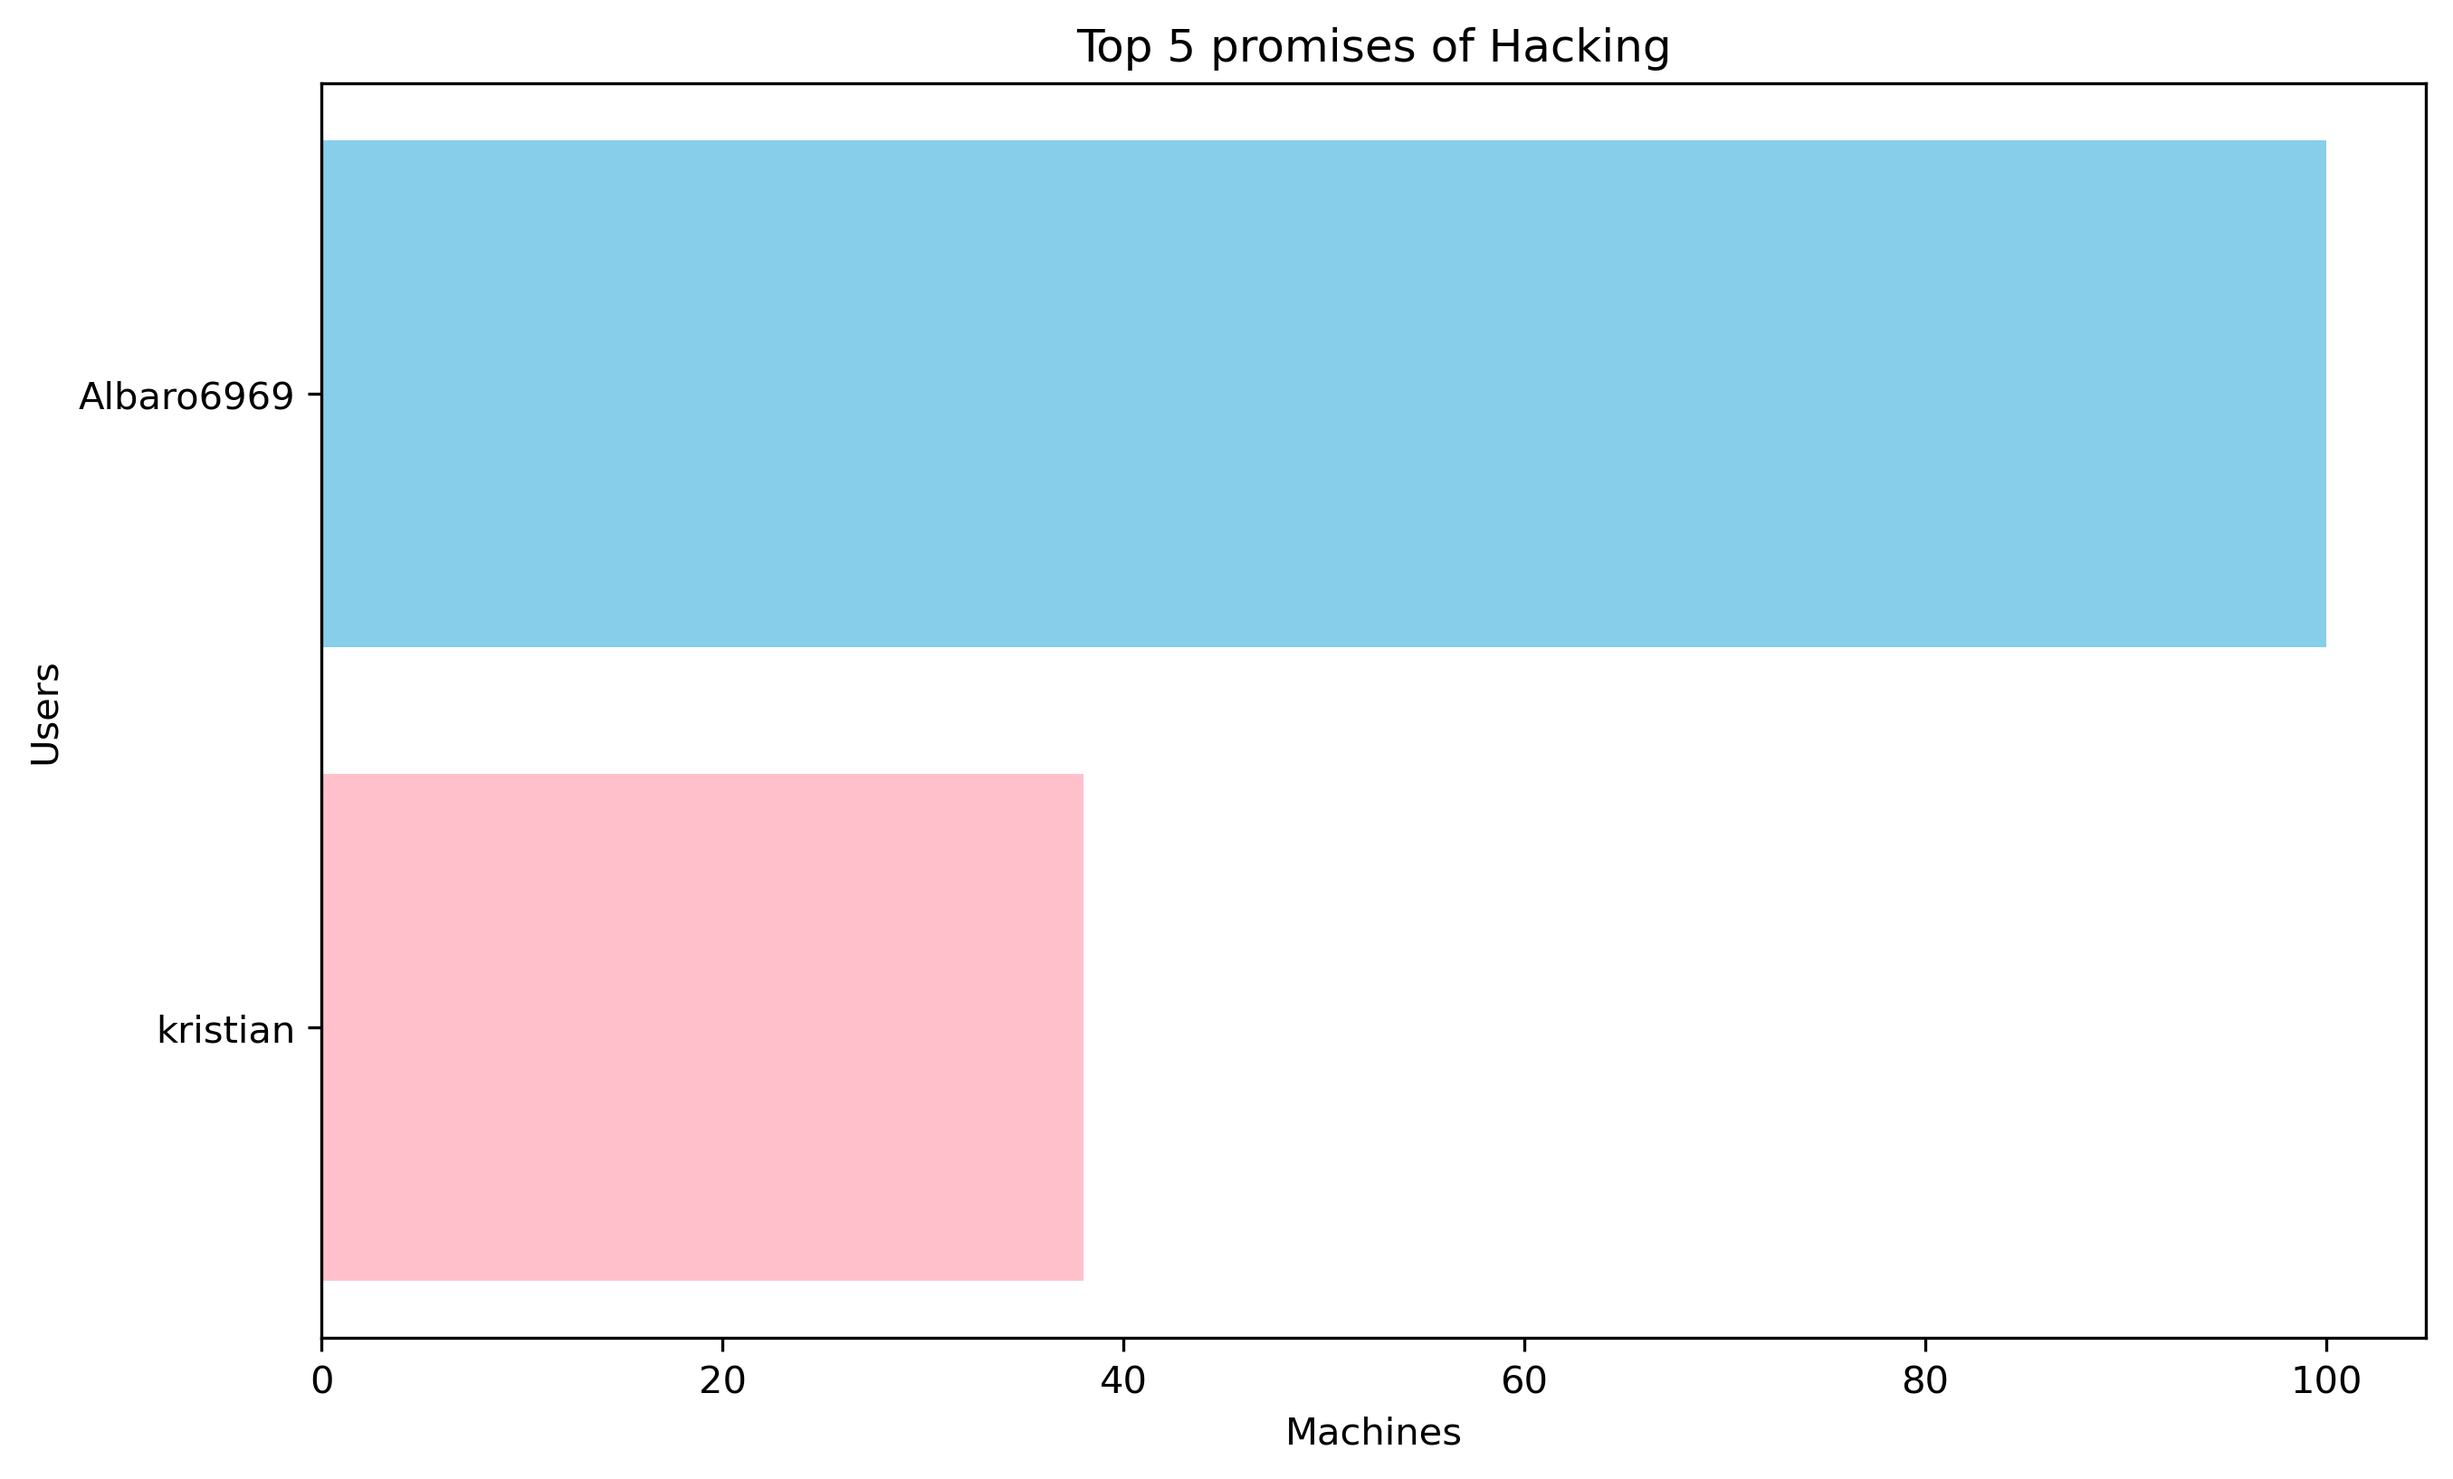
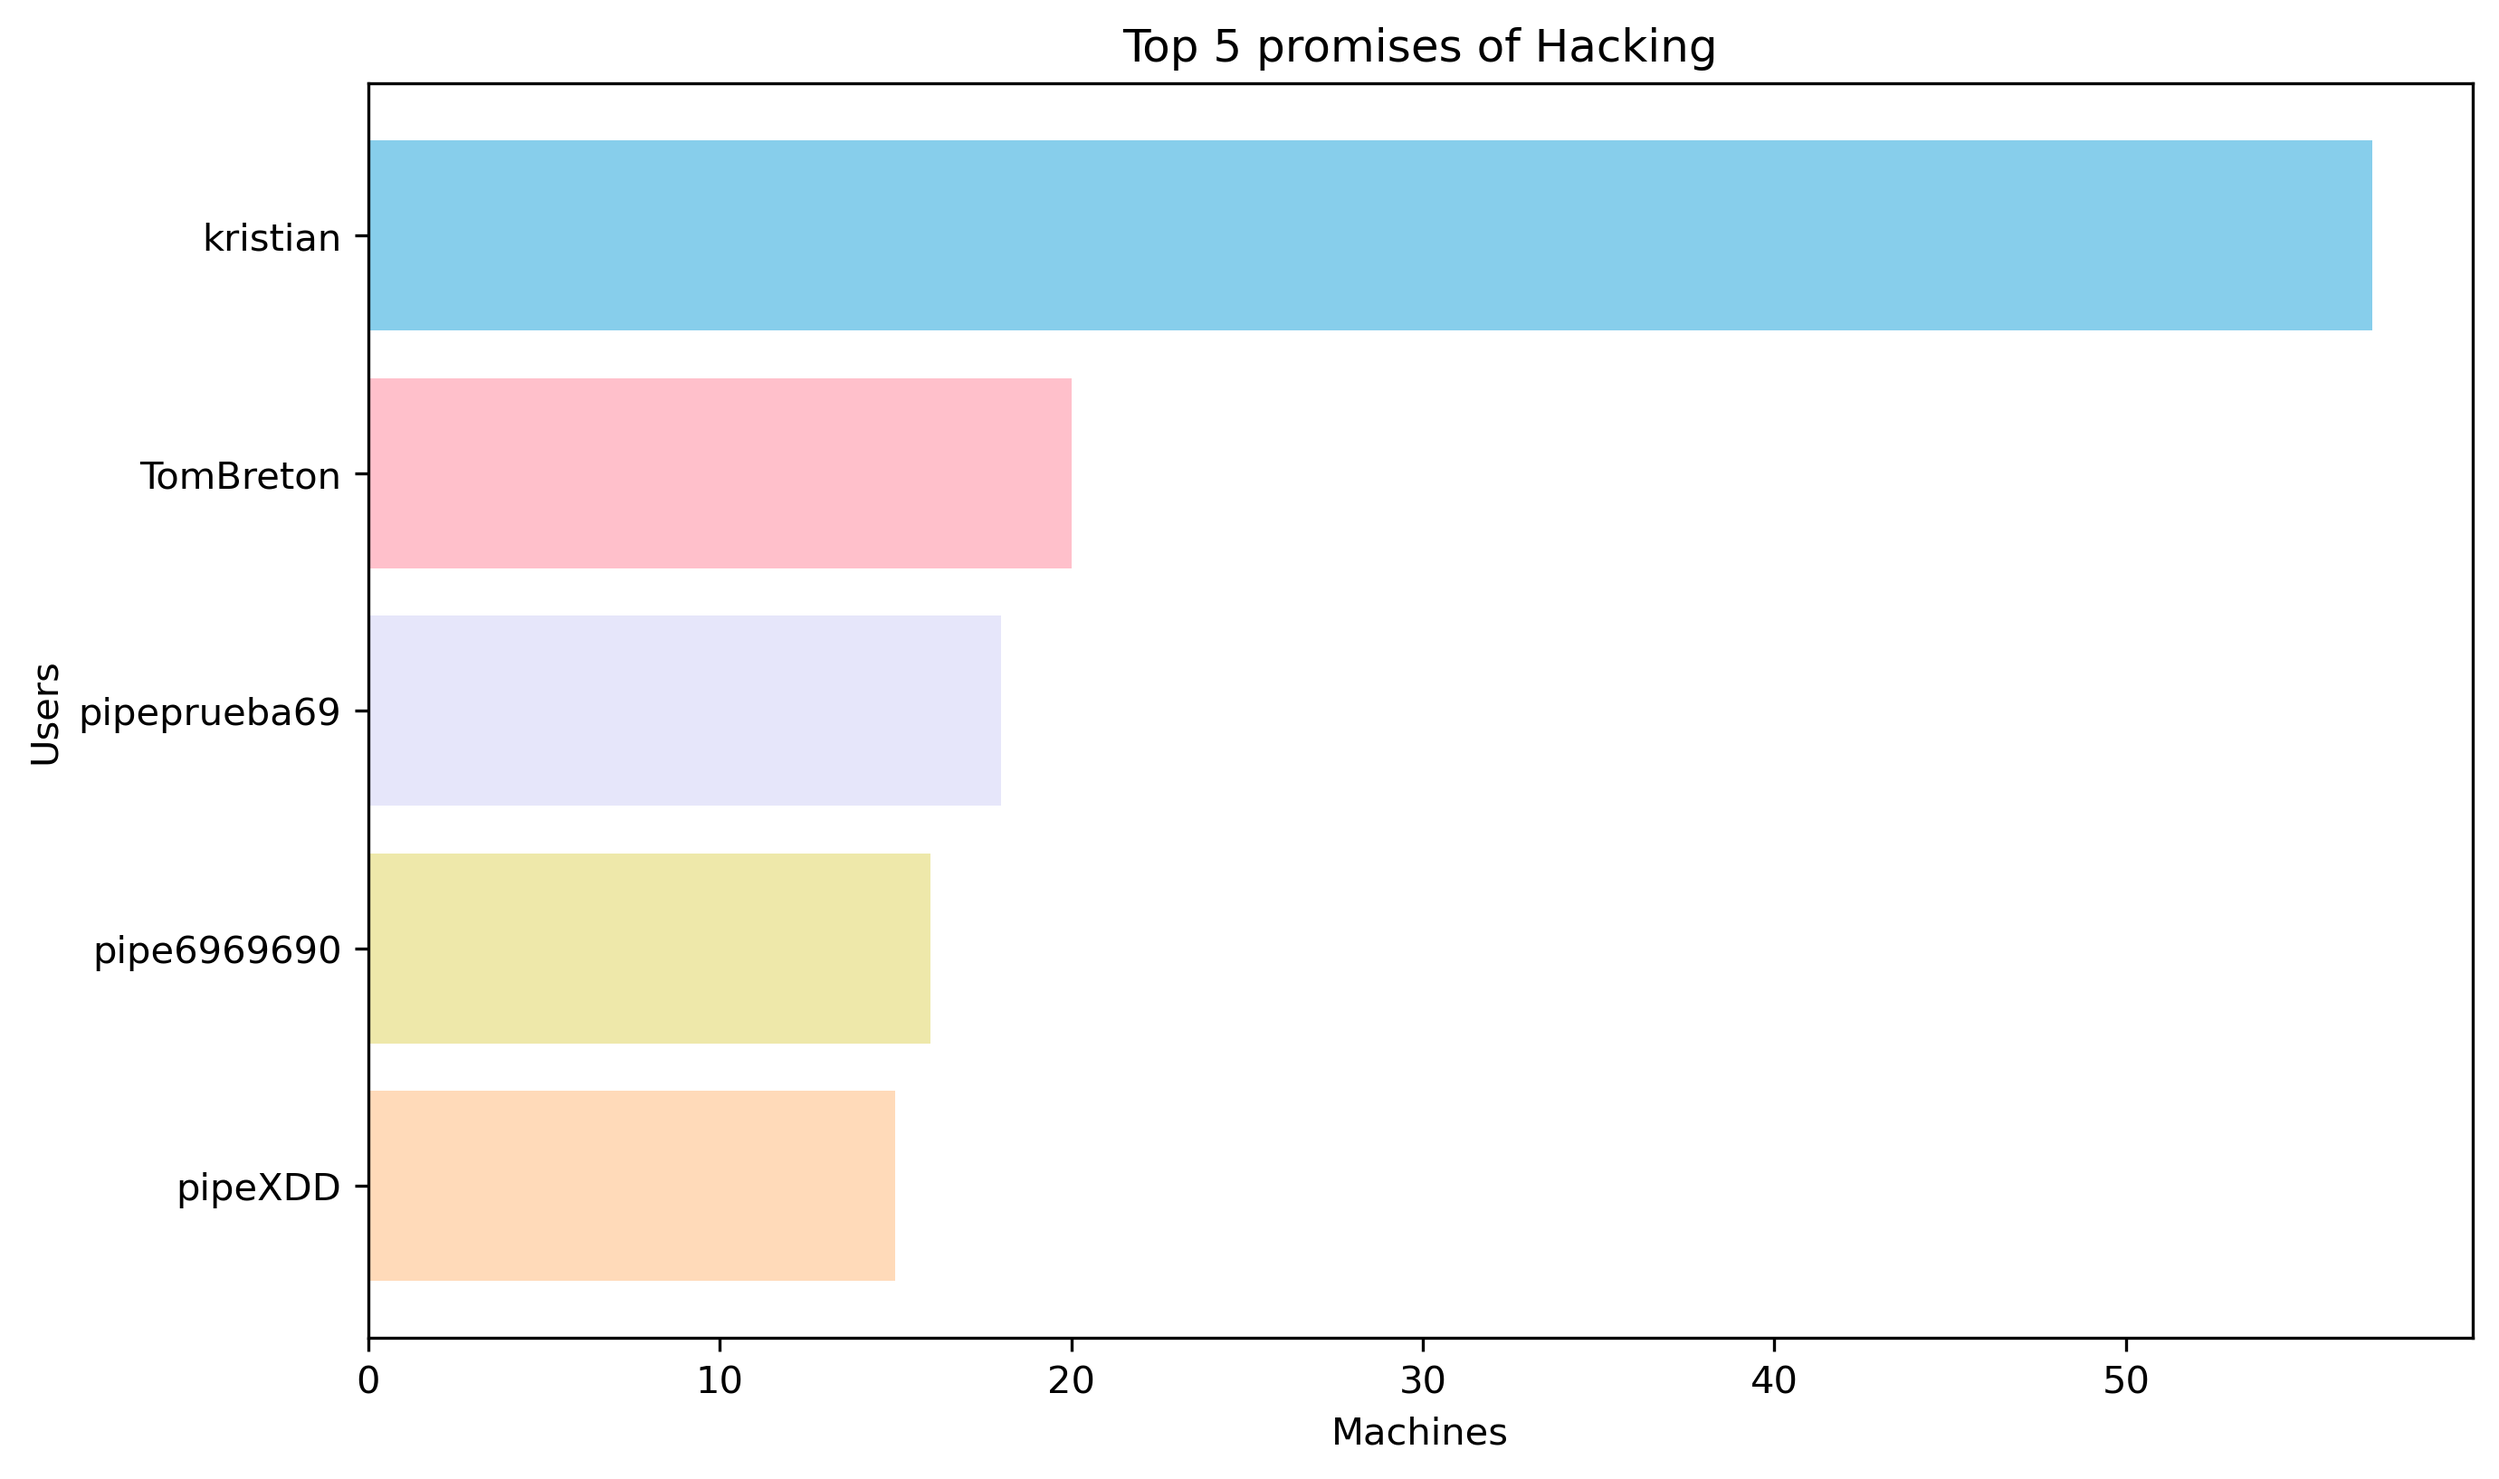
Herramientas mejor rankeadas

diff --git a/templates/main.html b/templates/main.html
@@ -339,20 +339,11 @@
               </div>
 
             </div>
-
-
-
-
-
-          <!--       ?General Posts         -->
-
-
-
-
-
-
           </div>
 
+
+
+          <!-- ? Posts           -->
               <div class="album box" id="statistics">
 
                 <div class="status-main">
@@ -389,8 +380,154 @@
               </div>
 
 
+
+
+
+
+
+
+
+
+
+              <div class="album box" id="statistics">
+
+                <div class="status-main">
+                  <img
+                    src="../static/resources/images/best1.jpeg"
+                    class="status-img"
+                  />
+                  <div class="album-detail">
+                    <div class="album-title">
+                      <strong>Admin</strong> create new <span>Statistic</span>
+                    </div>
+                    <div class="album-date">{{user['createdAt']}}</div>
+                  </div>
+                  <button class="intro-menu"></button>
+                </div>
+
+                <div class="album-content">
+                  Our 5 most ranked tools!!      😃👍.
+
+                  {% for user in topRankedsTools['name']%}
+
+                    <p> 🔥         {{user}}</p>
+
+                  {% endfor %} 
+
+                  <div class="album-photos">
+                    <img
+                      src="{{topRankedsTools['path']}}"
+                      alt=""
+                      class="album-photo"
+                    />
+                  </div>
+                </div>
+              </div>
+
+
+
+
+
+
+
+
+
+
+
+
+
+
+
+
+
+
+
+
+
+
+
+
+
+
+
+
+
+
+
+
+
+
+
+
+
+
+
+
+
+
+
+
+
+
+
+
+
+
+
+
+
+
+
+
+
+
+
+
+
+
+
+
+
+
+
+
+
+
+
+
+
+
+
+
+
+
+
+
+
+
+
+
+
         </div>
+
       </div>
+
+
+
+
+
+
+
+
+
+
+
+
+
+
+
+
+
 
       <!-- ? Right Side -->
 

diff --git a/templates/register.html b/templates/register.html
@@ -47,11 +47,11 @@
 
         {% else %}
 
-        <h1 class="error" style="color: #5eff00">Sigup</h1>
+        <h1 class="error" style="color: #5eff00">Sign up</h1>
         {% endif %}
 
         <div class="links">
-          <a href="login">Signup</a>
+          <a href="login">Log in</a>
         </div>
       </form>
     </div>

diff --git a/static/css/main.styles.css b/static/css/main.styles.css
@@ -4,6 +4,9 @@
 	 box-sizing: border-box;
 	scroll-behavior: smooth;
 }
+
+
+
  html {
 	 box-sizing: border-box;
 	 -webkit-font-smoothing: antialiased;
@@ -90,6 +93,7 @@
 	 display: flex;
 	 flex-direction: column;
 	 background-color: #181d2f;
+
 }
  .logo {
 	 font-family: "DM Sans", sans-serif;

diff --git a/analysis/TopRankedsTools.py b/analysis/TopRankedsTools.py
@@ -1,0 +1,74 @@
+import pandas as pd;
+import requests as req;
+import matplotlib.pyplot as plt
+import os;
+
+
+from analysis.FavoriteTools import endpoint;
+
+
+
+def TopRankedsTools():
+   
+
+    # Data Extraction
+    statisticsRes= req.get(endpoint + f"/statistics"); 
+    toolsRes = req.get(endpoint + f"/tools"); 
+    
+
+
+
+    # Data Cleaning 
+    dfStatistics = pd.DataFrame(statisticsRes.json());
+    dfTools = pd.DataFrame(toolsRes.json());
+
+    dfStatistics.drop(columns=['id', 'userId', 'createdAt', 'machine', 'attempt', 'loss'], inplace=True);
+
+
+    dfTools.rename(columns={'id': 'toolId'}, inplace=True)
+    dfStatistics = dfStatistics.merge(dfTools, on='toolId', how='left').drop(columns=['description']);
+
+
+
+    # # Data Analysis 
+    dfStatistics = dfStatistics.groupby("name")['toolId'].count().sort_values(ascending=False);
+
+
+
+    # # Data visualization 
+    plt.figure(figsize=(10, 8))  
+
+    plt.pie(dfStatistics.values, labels=dfStatistics.index, autopct='%1.1f%%',
+            colors=['#1f77b4', '#ff7f0e', '#2ca02c', '#d62728', '#9467bd'],
+            startangle=140, 
+            
+    );
+
+
+    plt.title('Top 5 best-ranked tools', fontsize=14, color='navy')
+    plt.legend(dfStatistics.index, title="Herramientas", loc="center left", bbox_to_anchor=(1, 0, 0.5, 1))   
+
+
+    # Saving and rebuilding the graph
+
+    properties = {}
+
+    path = f'static/statistics/TopRankedsTool.png';
+
+    if(os.path.exists(path)):
+        os.remove(path)
+
+    
+    plt.savefig(path, bbox_inches='tight', dpi=300);
+
+
+    properties = {
+        "path": path,
+        "name": dfStatistics.index.to_list()
+    }
+
+
+    return properties; 
+
+
+

diff --git a/index.py b/index.py
@@ -17,7 +17,7 @@ from analysis.FavoriteTools import FavoriteTools
 from analysis.TopUsers import TopUsers;
 from analysis.ActivityLog import LogsPerUser;
 from analysis.Promises import Promises;
-
+from analysis.TopRankedsTools import TopRankedsTools;
 
 
 
@@ -153,10 +153,9 @@ def index():
     topUsers = TopUsers(users);
     graphicUser = LogsPerUser(userId);
     promises = Promises()
+    topRankedsTools = TopRankedsTools();
 
 
-    # Provisional
-    
 
 
 
@@ -167,8 +166,9 @@ def index():
                            users = users,
                            tools = tools,
                            topUsers = topUsers,
-                           promises = promises
-                           
+                           promises = promises,
+                           topRankedsTools = topRankedsTools
+
                     );      
 
 
@@ -198,6 +198,7 @@ def userProfile(userId):
     topUsers = TopUsers(users);
     graphicUser = LogsPerUser(userId);
 
+    
 
 
 
@@ -224,12 +225,12 @@ def userProfile(userId):
 
 @app.route("/settings", methods = ['GET'])
 def GETsettings():
-    
 
     token = session.get("token")    
     return render_template('settings.html', token = token)
 
     
+
 
 @app.route("/settings", methods = ['POST'])
 def POSTsettings():

diff --git a/analysis/Promises.py b/analysis/Promises.py
@@ -28,10 +28,12 @@ def Promises():
     dfUsers.rename(columns={'id': 'userId'}, inplace=True)
     dfStatistics = dfStatistics.merge(dfUsers, on='userId', how='left').drop(columns=['state', 'createdAt'])
 
+
     
 
     # Data Analysis 
-    dfStatistics = dfStatistics.groupby("username", as_index=False).agg({'machine': 'sum', 'age': 'first'})\
+    dfStatistics = dfStatistics.query('age <= 20')\
+                    .groupby("username", as_index=False).agg({'machine': 'sum', 'age': 'first'})\
                     .sort_values(by=['machine', 'age'], ascending=[False, True]).head(5)
 
 
